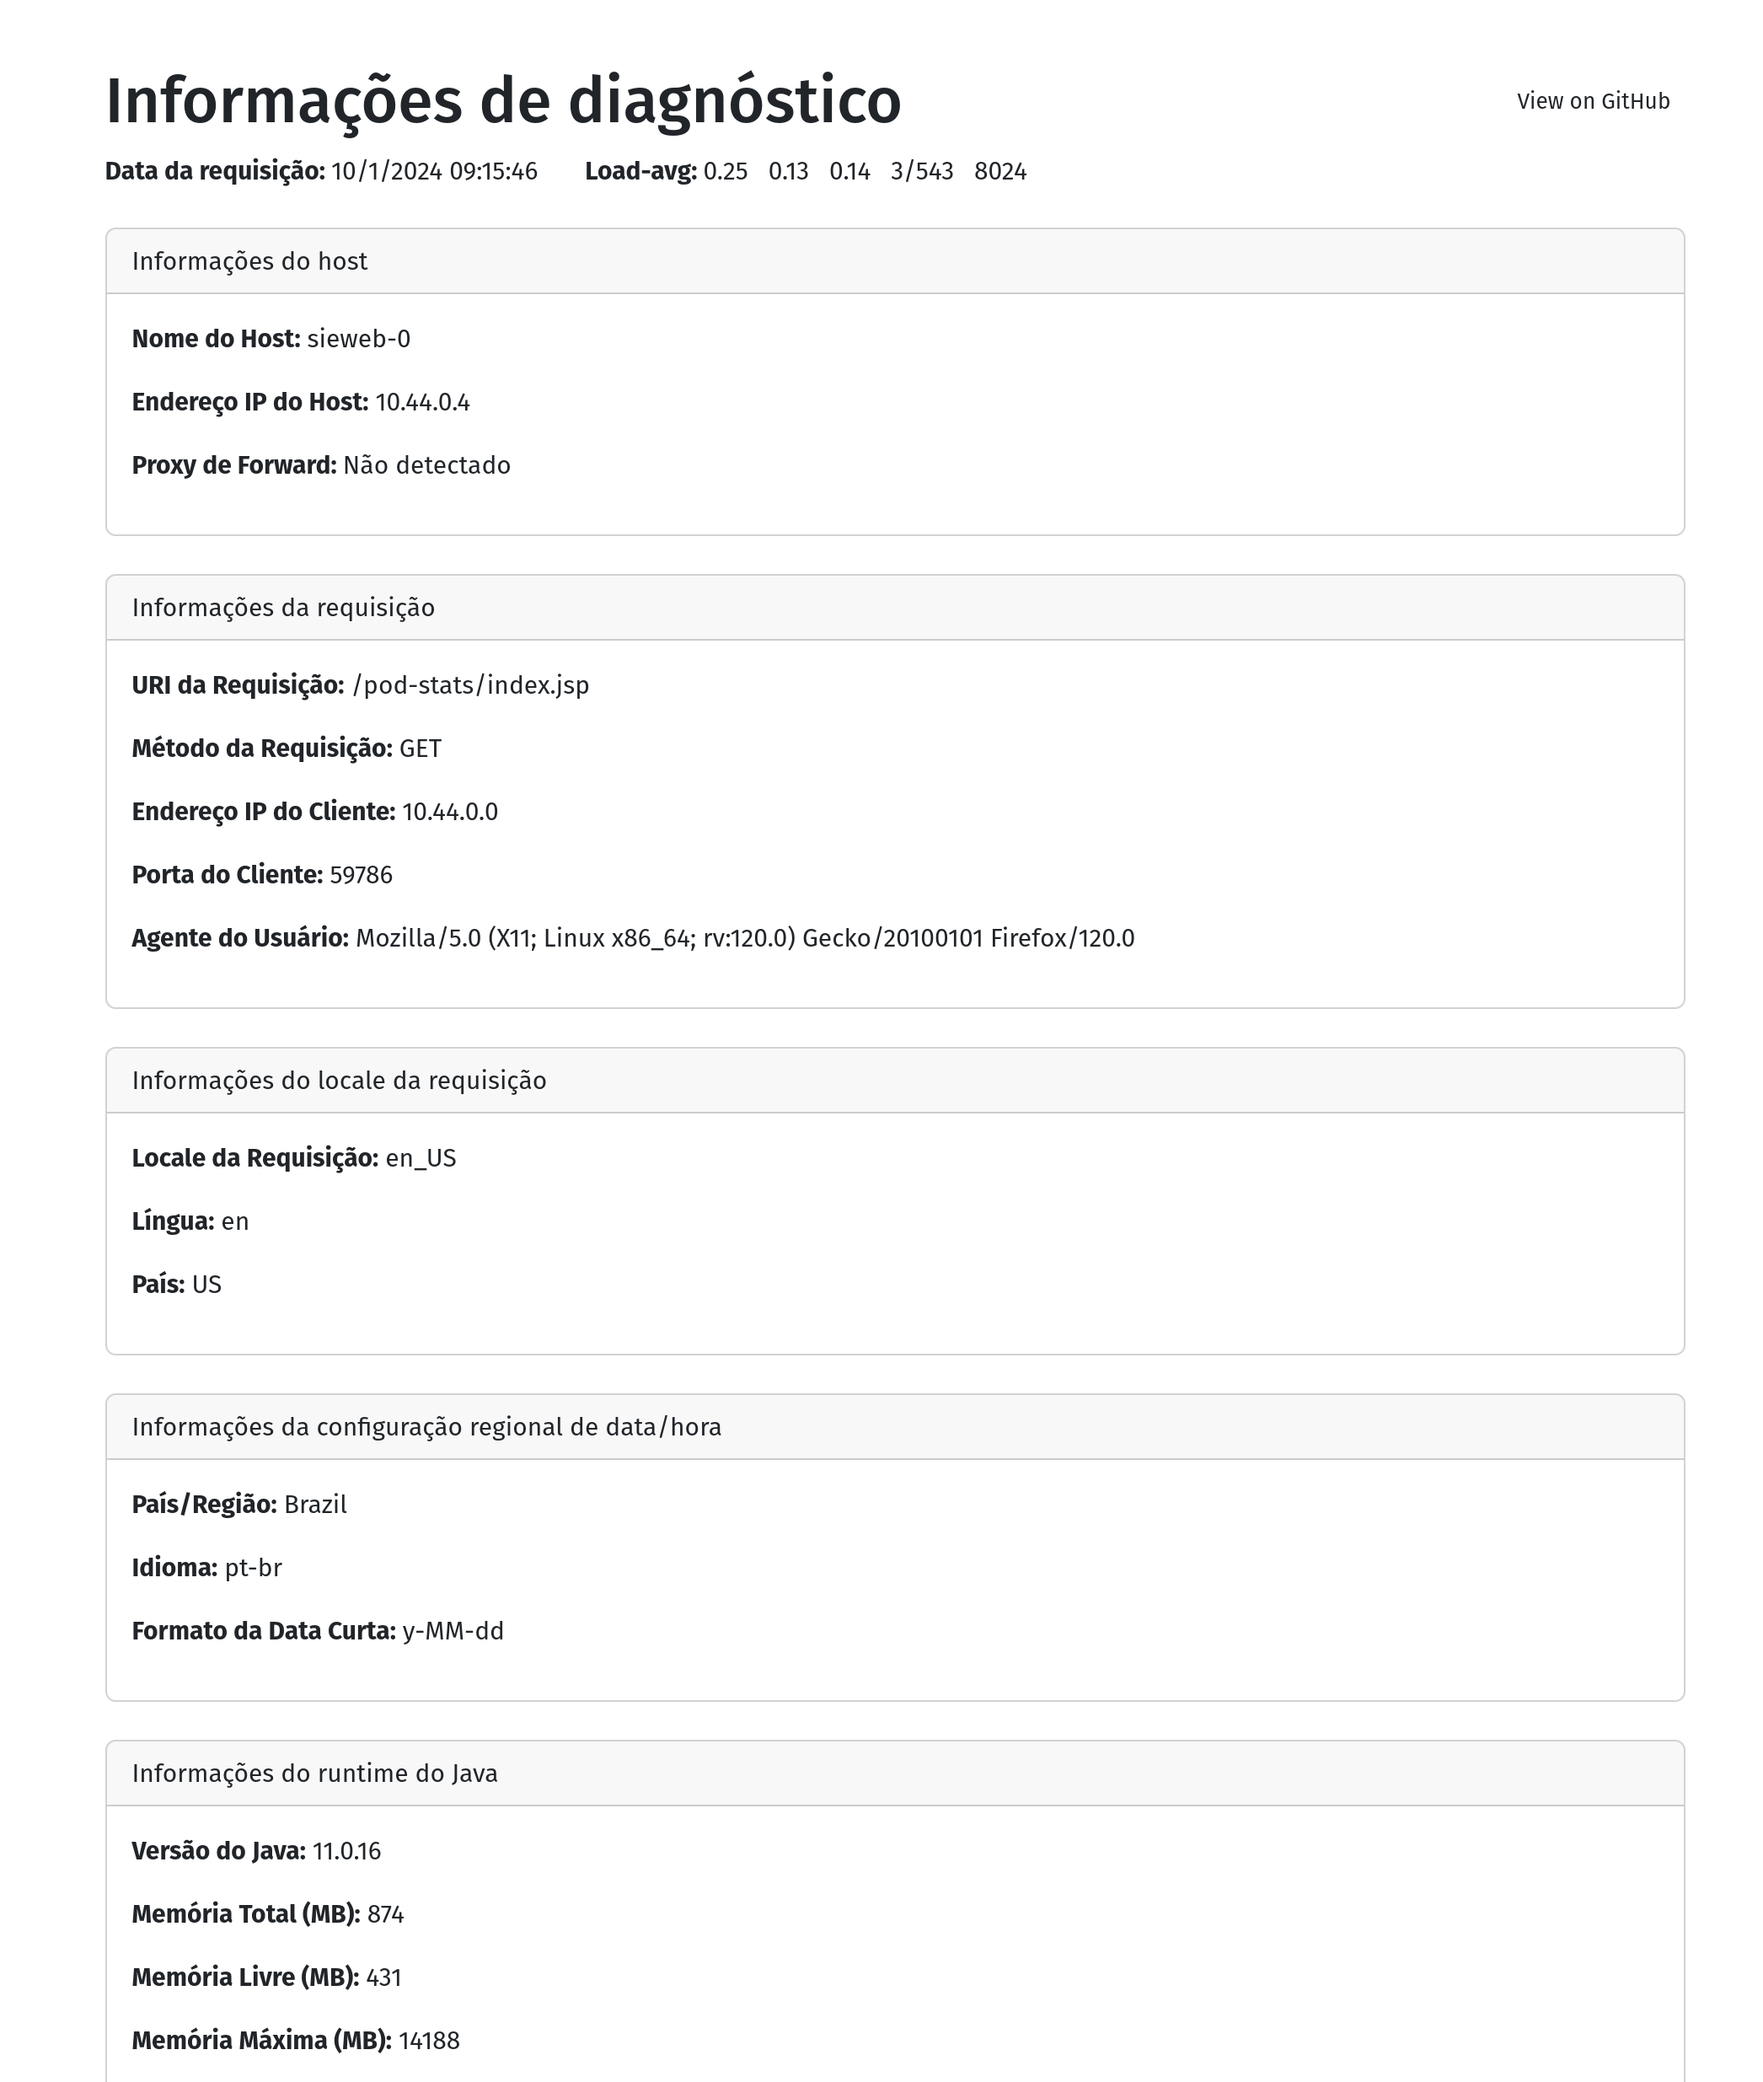
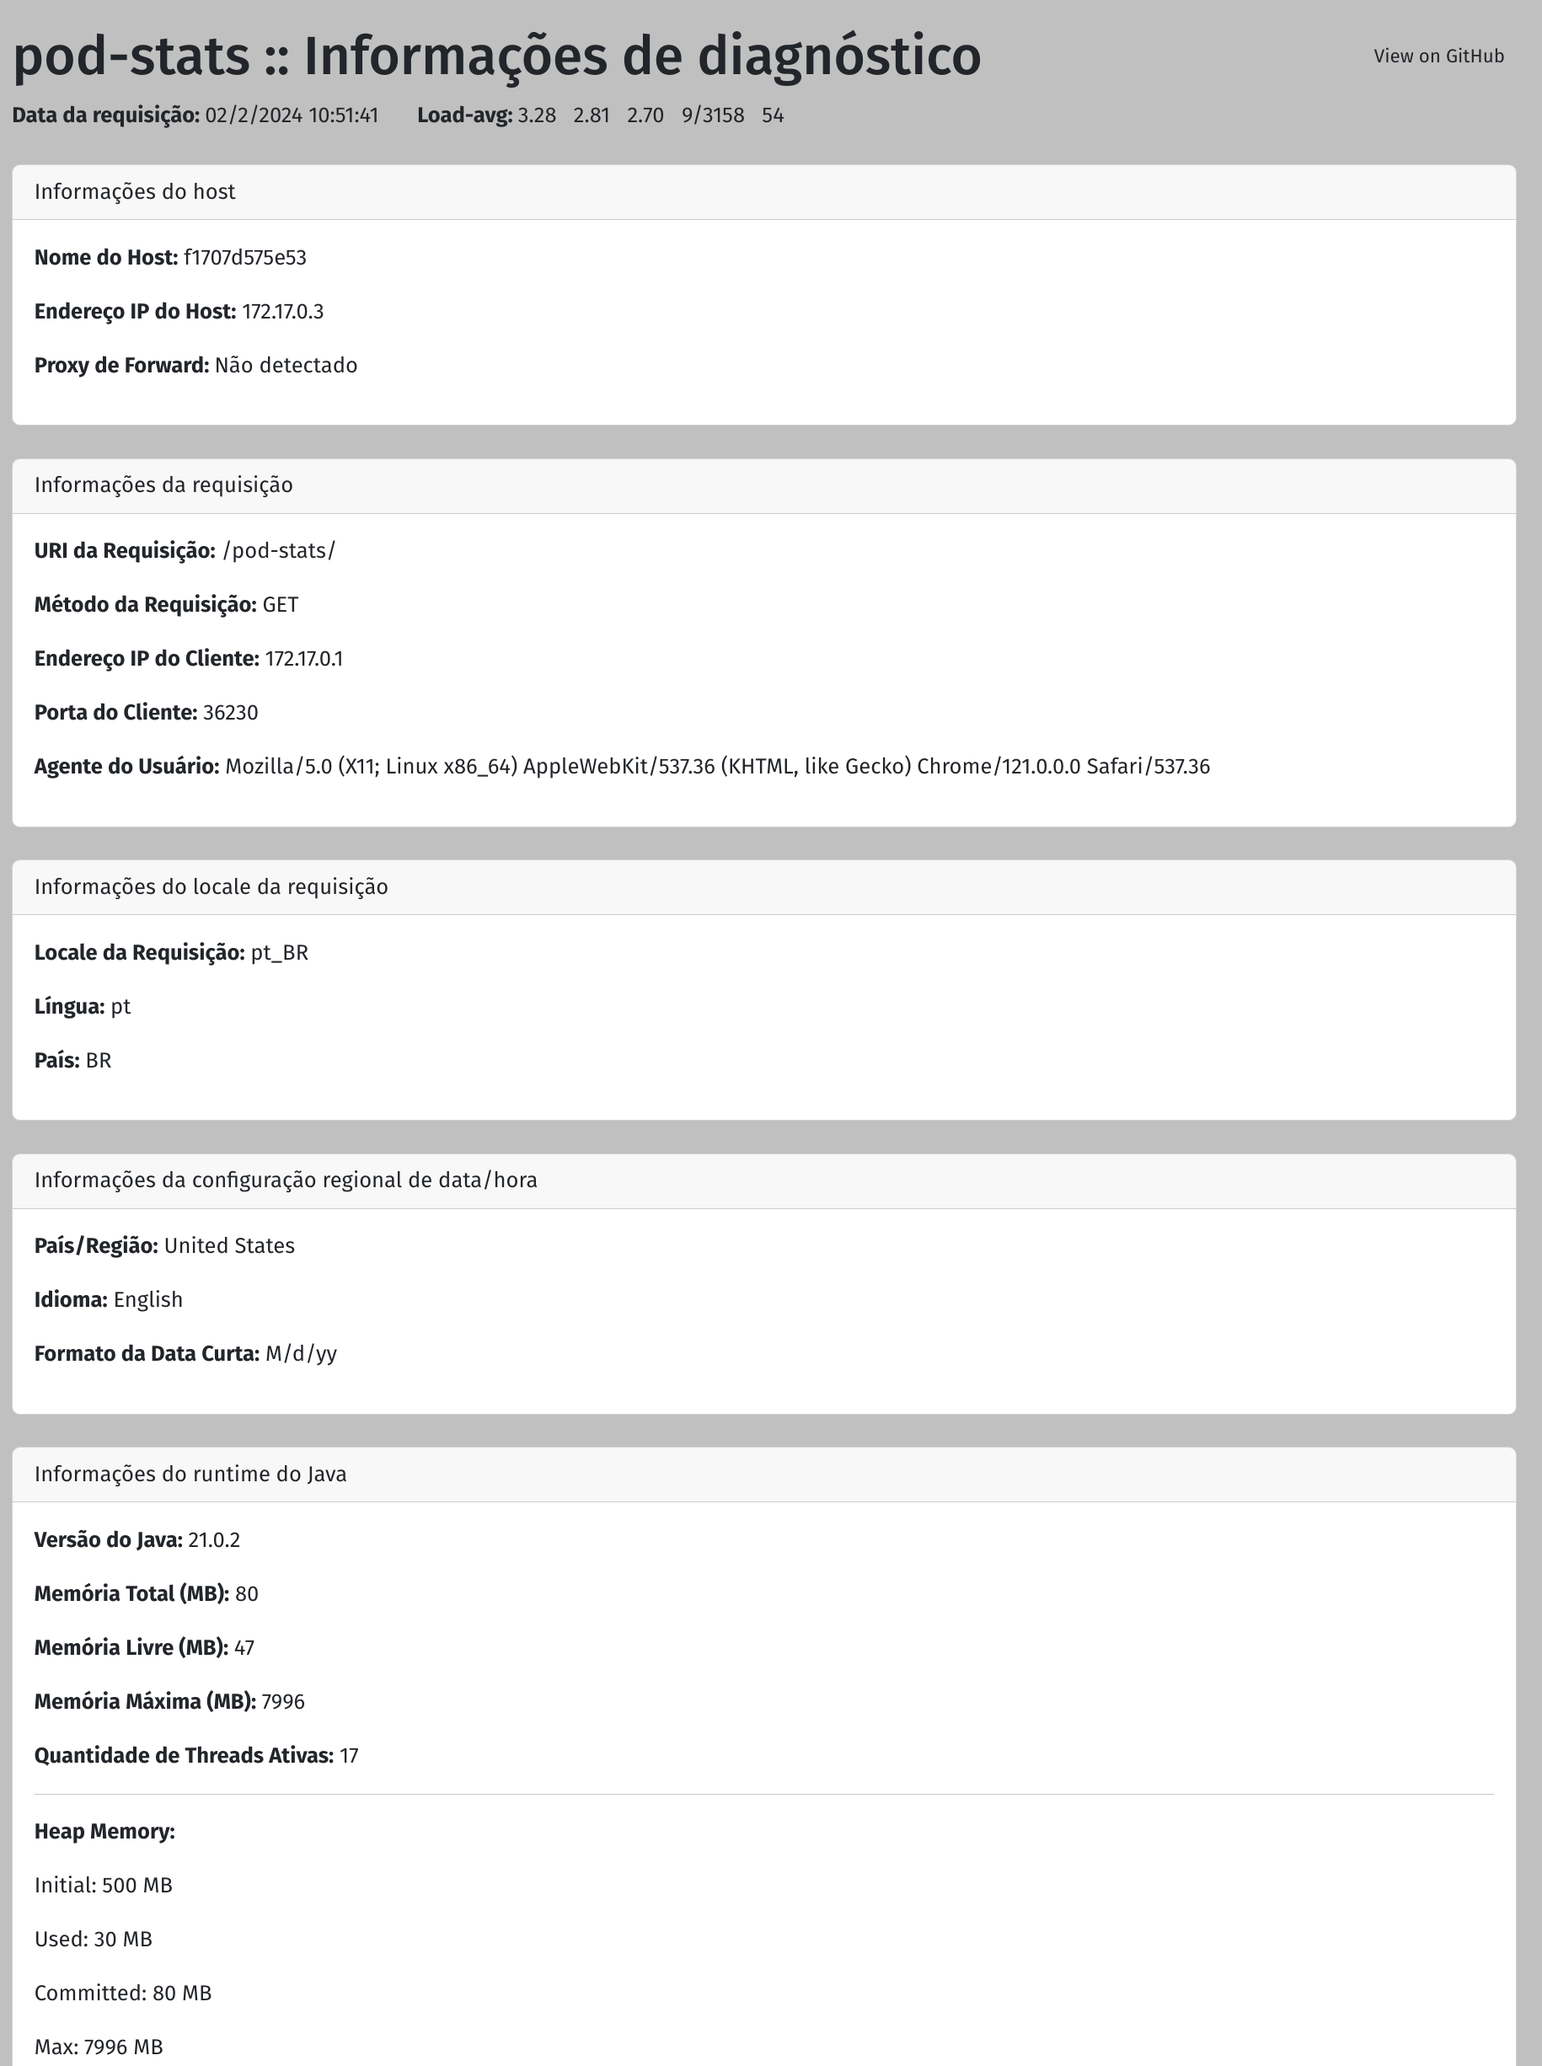
pod-stats

Changed region(s): [[0.0, 0.0, 1.0, 1.0]]

diff --git a/readme.md b/readme.md
@@ -1,16 +1,28 @@
-# Projeto web para mostrar informações de diagnóstico sobre pod/containers
+## Imagem docker de teste para exibir informações de diagnóstico da requisição HTTP
 
-### Basta deployar o pacote pod-stats.war em um container com um servidor de aplicação Java EE e acessar a aplicação pod-stats
+### Funcionalidades
 
+- Permite passar um token para obter informações sobre o consumo de memória e alguns parâmetros do kernel expostos para o container
+- Permite definir a cor do fundo da página. Isso serve para identificar visualmente o container acessado através de um proxy reverso
+- Permite visualizar as variáveis de ambiente do container
+- Permite visualizar os parâmetros da querystring
+- Permite visualizar o /proc/1/cmdline do container
+
+
+### Como usar
 
 ```bash
+# Gera um token para obter informações completas do ambiente
 export TOKEN=$(head -c 20 /dev/urandom | base64)
 echo $TOKEN
-docker run --env TOKEN=$TOKEN -p 8080:8080 evertonagilar/pod-stats
+
+# Subir um container com o token e opcionalmente um cor de background da página
+docker run --env TOKEN=$TOKEN ---env COLOR=silver -p 8080:8080 evertonagilar/pod-stats
 # Execute no browser
 curl "http://localhost:8080/pod-stats/index.jsp?token=$TOKEN"
 ```
 
+### Tela
 
 ![alt text for screen readers](screen.png "Exemplo de tela do portal").
 
